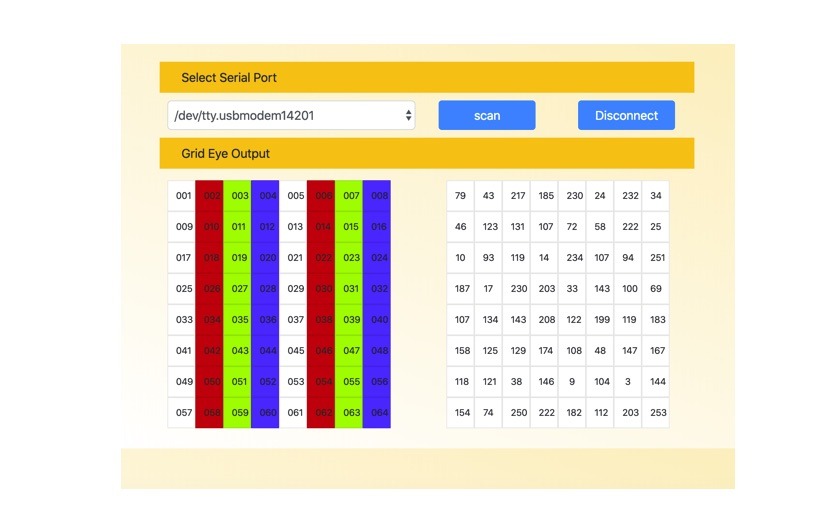
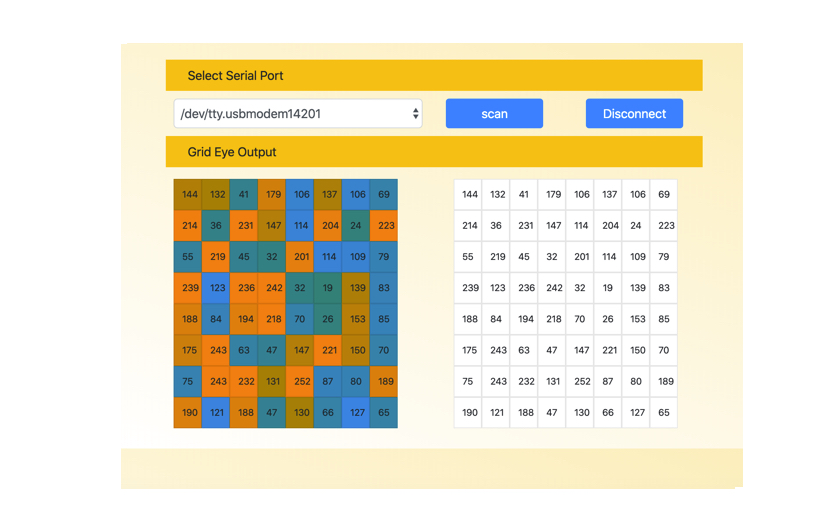
grid eye sensor

Changed region(s): [[0.1807, 0.0604, 0.9036, 0.9358]]

diff --git a/src/action.js b/src/action.js
@@ -131,6 +131,65 @@ function html_textarea_scroll(id){
     document.getElementById(id).scrollTop = document.getElementById(id).scrollHeight
 }
 
+function update_left_grid(pixel_reading_array)
+{
+    var i, tmp;
+    var index = "";
+    var pixel_id = "";
+    
+    
+    dis="pixel[0] = "+pixel_reading_array[0];
+	console.log(dis);
+    /*
+    dis="pixel[1] = "+pixel_reading_array[1];
+	console.log(dis);
+    dis="pixel[2] = "+pixel_reading_array[2];
+	console.log(dis);
+    tmp=pixel_reading_array.length;
+    dis="pixel_reading_array.length = "+tmp.toString();
+	console.log(dis);
+    */
+
+    var red=0;
+    var green=128;
+    var blue=0;
+    var color;
+
+    for(i=1; i<pixel_reading_array.length; i++){
+
+        if(i>64){
+            break;
+        }
+        tmp = i;
+        index = tmp.toString();
+        pixel_id = "pxL_"+index;
+        var element = document.getElementById(pixel_id);
+        var temperature = Number(pixel_reading_array[i]);
+       
+        if( temperature > 128 ){ //HOT - RED
+            red = Math.floor(temperature) + 40;
+            if(red > 255){
+                red = 255;
+            }
+            blue = 0;
+        }else{ //COLD - BLUE
+            red = 0;
+            blue = temperature + 100;
+
+            if(blue > 255){
+                blue = 255;
+            }
+
+        }
+        
+        color=rgb2hex(red,green,blue);
+        element.style.backgroundColor=color;
+        element.innerText = pixel_reading_array[i]; 
+    }
+
+}
+
+
 function update_right_grid(pixel_reading_array)
 {
     var i, tmp;
@@ -191,6 +250,7 @@ function html_serial_data_display(data)
      */
     var grid_eye_values = incoming_str.split("#");
 
+    update_left_grid(grid_eye_values);
     update_right_grid(grid_eye_values);
     //html_textarea_append('id_serial_reader', data);
 }
@@ -385,10 +445,26 @@ async function sleep_test(){
 	alert("Woke up after 10 seconds of nice rest!!");
 }
 
+function rgb2hex(r,g,b) {
+    r = r.toString(16);
+    g = g.toString(16);
+    b = b.toString(16);
+
+    if (r.length == 1) r = "0" + r;
+    if (g.length == 1) g = "0" + g;
+    if (b.length == 1) b = "0" + b;
+
+    var ret = "#" + r + g + b;
+    return ret
+}
+
 function generate_grid_1()
 {
     var i, div, index;
-    var color="#4FF";
+    var red=255;
+    var green=128;
+    var blue=0;
+    var color=rgb2hex(red,green,blue);
     var pixel_id = "";
     var element = document.getElementById("px_main_1");
     var c_ctr=0;
@@ -411,13 +487,18 @@ function generate_grid_1()
 
 
         if( c_ctr == 1 ){
-            color="#C00"
-        }else if( c_ctr == 2 ){
-            color="#8F0"
-        }else if( c_ctr == 3 ){
-            color="#40F"
+            red = red - 40;
+
+            if(red < 0) {
+                red = 255;
+            }
+            
+            color=rgb2hex(red,green,blue);
+            //color="#C00"
         }else{
-            color="#FFF"
+            blue = (blue + 40) % 255;
+            color=rgb2hex(red,green,blue);
+            //color="#8F0"
         }
 
         div.style.backgroundColor=color;
